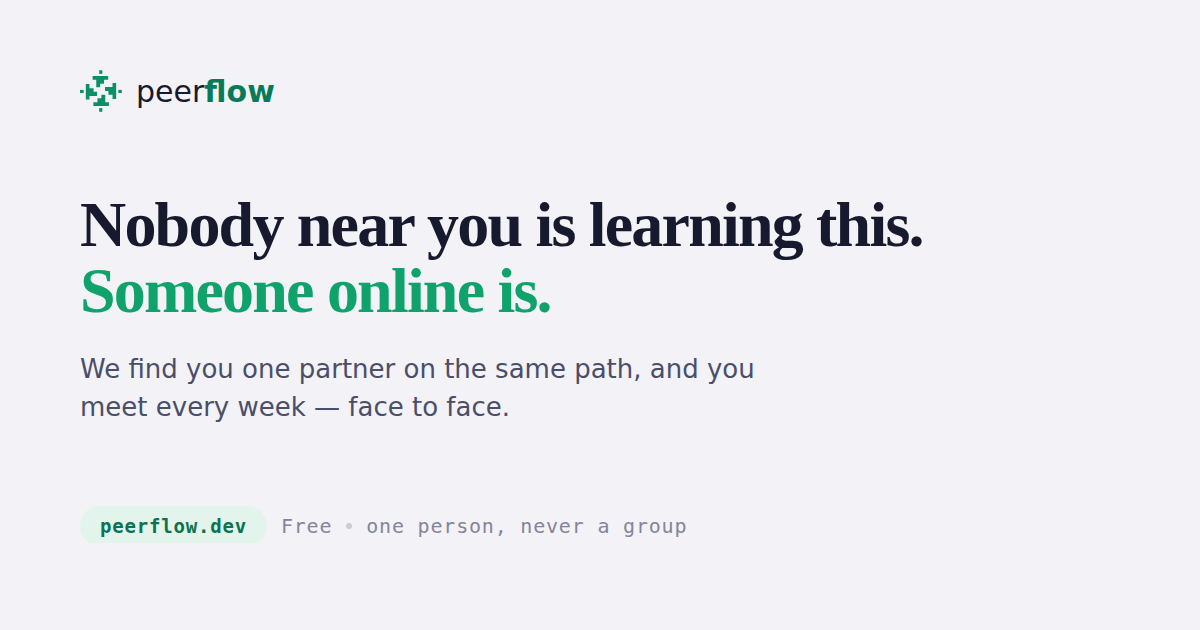
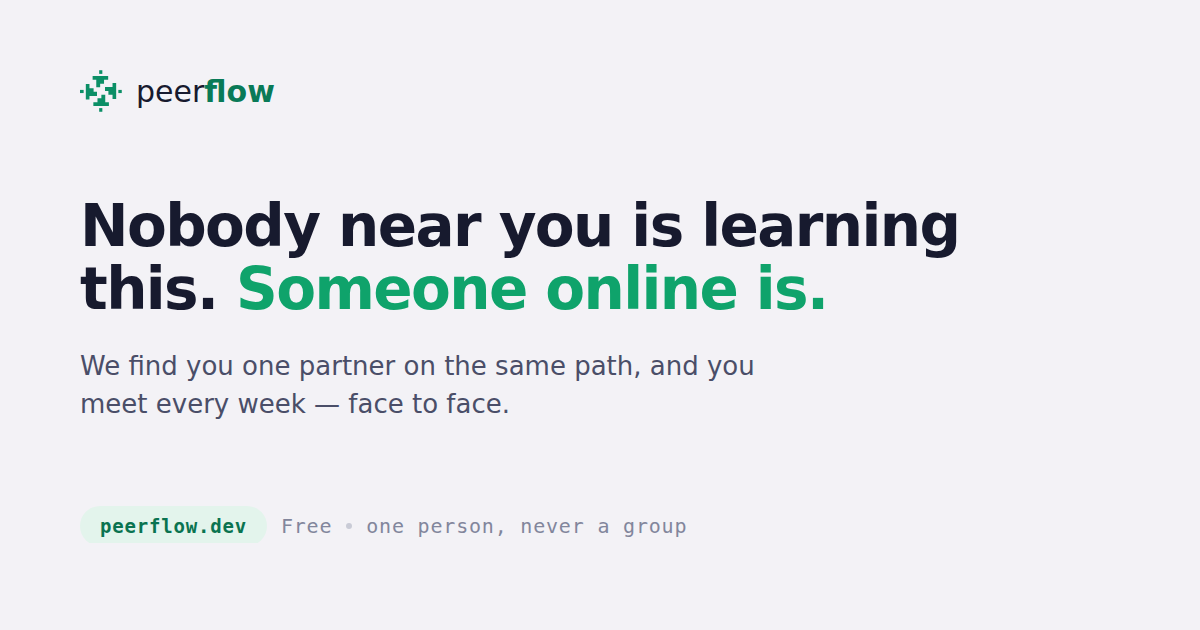
Use the site's system font stack on the landing page
Drops Bricolage Grotesque, Schibsted Grotesk and JetBrains Mono for the
two stacks styles.css already defines, so the landing page and the app
read as one product. No more Google Fonts requests, which also removes
the site's only third-party dependency and the flash of fallback text.

Retuned for a system sans, which needs more weight than a display face:
h1 to 800, h2 to 700, card headings and buttons to 600, and slightly
tighter tracking. Added text-wrap:balance to h1/h2 — same as styles.css
does — so the headline stops leaving "is." alone on the last line.

Re-rendered assets/social.png to match.

Claude-Session: https://claude.ai/code/session_01YKC4UuyUEYgQuEBKY8hLuJ

Changed region(s): [[0.0617, 0.3016, 0.8017, 0.5127], [0.0617, 0.5429, 0.6475, 0.6032], [0.0617, 0.6333, 0.4317, 0.6635]]

diff --git a/assets/home.css b/assets/home.css
@@ -17,9 +17,10 @@
   --live:#0FA36B;
   --live-soft:#E3F4EC;
   --live-deep:#0A7350;
-  --display:"Bricolage Grotesque",Georgia,serif;
-  --body:"Schibsted Grotesk",system-ui,sans-serif;
-  --mono:"JetBrains Mono",ui-monospace,monospace;
+  /* Same two stacks styles.css uses, so the landing page and the app read
+     as one product — and nothing is fetched from Google. */
+  --body:system-ui,-apple-system,"Segoe UI",Roboto,"Helvetica Neue",Arial,sans-serif;
+  --mono:ui-monospace,"SF Mono","Cascadia Code",Menlo,Consolas,monospace;
 }
 
 *{box-sizing:border-box}
@@ -60,7 +61,7 @@ a:focus-visible,button:focus-visible{
 
 .btn{
   display:inline-block;background:var(--ink);color:#fff;padding:11px 20px;
-  border-radius:10px;font-size:14px;font-weight:500;border:0;cursor:pointer;
+  border-radius:10px;font-size:14px;font-weight:600;border:0;cursor:pointer;
   font-family:var(--body);transition:transform .15s ease,background .15s ease;
 }
 .btn:hover{background:#0D0F1E;transform:translateY(-1px)}
@@ -71,9 +72,12 @@ a:focus-visible,button:focus-visible{
   display:grid;grid-template-columns:1.05fr .95fr;gap:56px;
   align-items:center;padding:64px 0 72px;
 }
+/* Heavier and tighter than the old display face needed — a system sans wants
+   the extra weight to carry a headline this size. */
 h1{
-  font-family:var(--display);font-size:clamp(38px,5.2vw,60px);line-height:1.02;
-  letter-spacing:-0.03em;font-weight:600;margin:0 0 20px;
+  font-size:clamp(36px,4.8vw,54px);line-height:1.08;
+  letter-spacing:-0.022em;font-weight:800;margin:0 0 20px;
+  text-wrap:balance;
 }
 h1 em{font-style:normal;color:var(--live)}
 .lede{font-size:18px;color:var(--ink-soft);margin:0 0 30px;max-width:30ch}
@@ -109,7 +113,7 @@ h1 em{font-style:normal;color:var(--live)}
 .rows{margin-top:16px;display:grid;gap:11px;font-size:14px}
 .row{display:flex;justify-content:space-between;align-items:center}
 .row span{color:var(--ink-soft)}
-.row b{font-weight:500}
+.row b{font-weight:600}
 
 /* Pomodoro: a small dial beside the time, not a big ring floating in space.
    home.js drives the arc via stroke-dashoffset; 270.18 is the circumference
@@ -124,7 +128,7 @@ h1 em{font-style:normal;color:var(--live)}
 .pom-track{stroke:var(--live-soft)}
 .pom-arc{stroke:var(--live);stroke-dasharray:270.18;stroke-dashoffset:0}
 .pom-txt b{
-  display:block;font-family:var(--mono);font-size:22px;font-weight:500;color:var(--ink);
+  display:block;font-family:var(--mono);font-size:22px;font-weight:600;color:var(--ink);
   font-variant-numeric:tabular-nums;letter-spacing:0.02em;line-height:1.15;
 }
 .pom-txt span{font-size:13px;color:var(--ink-soft)}
@@ -136,13 +140,13 @@ h1 em{font-style:normal;color:var(--live)}
   border:1px solid var(--line);border-radius:16px;overflow:hidden;
 }
 .step{background:var(--paper);padding:24px 26px}
-.step h3{margin:8px 0 4px;font-size:16px;font-weight:500;letter-spacing:-0.01em}
+.step h3{margin:8px 0 4px;font-size:16px;font-weight:600;letter-spacing:-0.01em}
 .step p{margin:0;font-size:14px;color:var(--ink-soft)}
 
 /* ---------- paths ---------- */
 .sec{padding:80px 0 0}
 .sec-head{margin-bottom:26px}
-.sec-head h2{font-family:var(--display);font-size:34px;letter-spacing:-0.025em;font-weight:600;margin:8px 0 6px}
+.sec-head h2{text-wrap:balance;font-size:clamp(27px,3.2vw,34px);letter-spacing:-0.02em;font-weight:700;margin:8px 0 6px}
 .sec-head p{margin:0;color:var(--ink-soft);font-size:16px}
 
 .grid{display:grid;grid-template-columns:repeat(4,1fr);gap:16px}
@@ -153,10 +157,10 @@ h1 em{font-style:normal;color:var(--live)}
 .path:hover{transform:translateY(-3px);box-shadow:0 10px 24px rgba(23,26,46,.09)}
 .path svg{width:100%;display:block}
 .path-body{padding:14px 16px 16px;display:flex;flex-direction:column;gap:10px;flex:1}
-.path h3{margin:0;font-size:17px;font-weight:500;letter-spacing:-0.015em}
+.path h3{margin:0;font-size:17px;font-weight:600;letter-spacing:-0.012em}
 .path .cta{
   margin-top:auto;text-align:center;border:1px solid var(--ink);border-radius:9px;
-  padding:8px;font-size:13.5px;font-weight:500;transition:background .15s ease,color .15s ease;
+  padding:8px;font-size:13.5px;font-weight:600;transition:background .15s ease,color .15s ease;
 }
 .path:hover .cta{background:var(--ink);color:#fff}
 
@@ -178,8 +182,8 @@ h1 em{font-style:normal;color:var(--live)}
 /* ---------- founder ---------- */
 .founder{padding:88px 0 72px;max-width:640px}
 .founder blockquote{
-  margin:0;font-family:var(--display);font-size:23px;line-height:1.45;
-  letter-spacing:-0.015em;font-weight:500;
+  margin:0;font-size:21px;line-height:1.5;
+  letter-spacing:-0.01em;font-weight:500;
 }
 .founder cite{
   display:block;margin-top:14px;font-style:normal;font-size:14px;

diff --git a/index.html b/index.html
@@ -18,9 +18,6 @@
 <meta name="twitter:description" content="We find you one partner on the same path, and you meet every week — face to face.">
 <meta name="twitter:image" content="https://peerflow.dev/assets/social.png">
 <meta name="theme-color" content="#0b8f66">
-<link rel="preconnect" href="https://fonts.googleapis.com">
-<link rel="preconnect" href="https://fonts.gstatic.com" crossorigin>
-<link href="https://fonts.googleapis.com/css2?family=Bricolage+Grotesque:opsz,wght@12..96,500;12..96,600&family=Schibsted+Grotesk:wght@400;500&family=JetBrains+Mono:wght@400;500&display=swap" rel="stylesheet">
 <link rel="stylesheet" href="assets/home.css">
 </head>
 <body>
